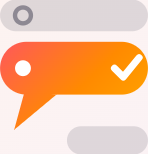
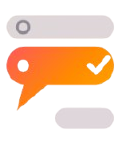
connect backend for api.quizsupport

diff --git a/code-judge-backend/src/controllers/secureMedia.controller.ts b/code-judge-backend/src/controllers/secureMedia.controller.ts
@@ -1,6 +1,6 @@
 // Secure media controller. Serves AES-256-GCM encrypted images from a secure directory
 // as application/octet-stream to prevent browser media inspection. Also serves the
-// public brand logo (public/logo/logo.png) inside the same encrypted envelope.
+// public brand logos (public/logo/*.png) inside the same encrypted envelope.
 import type { Request, Response } from "express";
 import fs from "node:fs/promises";
 import path from "node:path";
@@ -11,106 +11,61 @@ import { SecureMediaService } from "../services/secureMedia.service.ts";
 const secureMediaService = new SecureMediaService();
 
 // --- Brand logo (GET /api/v1/brand/logo) --------------------------------------
-// Source of truth: backend public/logo/logo.png. Drop a new file there and the
-// site picks it up on the next request (cache keyed on mtime + size).
+// Source of truth: two files in public/logo/ —
+//   logo_with_name.png — speech-bubble mark + "QuizSupport" wordmark (wide, ~4:1)
+//   logo.png           — icon-only mark (square, ~1:1)
+// variant=full serves the first, variant=mark the second. Drop a new file there
+// and the site picks it up on the next request (cache keyed on mtime + size).
 const moduleDir = path.dirname(fileURLToPath(import.meta.url));
-const brandLogoFile = path.resolve(moduleDir, "../../public/logo/logo.png");
-
-// Trim tolerance for the padding around the artwork. Tuned against logo.png's
-// near-white background: 25 strips the margins without eating the glyphs.
-const LOGO_TRIM_THRESHOLD = 25;
+const logoDir = path.resolve(moduleDir, "../../public/logo");
 
 type LogoVariant = "full" | "mark";
 
+const brandLogoFiles: Record<LogoVariant, string> = {
+  full: path.join(logoDir, "logo_with_name.png"),
+  mark: path.join(logoDir, "logo.png"),
+};
+
+// Trim tolerance for the padding around the artwork. The source PNGs ship on a
+// transparent canvas; 25 strips the margins without eating the glyphs.
+const LOGO_TRIM_THRESHOLD = 25;
+
 const logoCache = new Map<string, Buffer>();
 
-/**
- * Crop the speech-bubble mark (left icon) out of a wide, already-trimmed
- * wordmark banner. Splits at the first background gap whose start falls in the
- * first 45% of the image — i.e. the seam between mark and wordmark — then
- * re-trims the left slice. Used for square slots (collapsed sidebar rail,
- * favicon). Falls back to the full banner if no seam is found.
- */
-async function autoCropIcon(logoPng: Buffer): Promise<Buffer> {
-  const { data, info } = await sharp(logoPng)
-    .ensureAlpha()
-    .raw()
-    .toBuffer({ resolveWithObject: true });
-  const { width, height, channels } = info;
-
-  // Background ≈ top-left pixel. A column counts as background only when every
-  // pixel in it is within tolerance (sum of |ΔRGB| ≈ 25 per channel).
-  const bgR = data[0];
-  const bgG = data[1];
-  const bgB = data[2];
-  const tolerance = 75;
-  const isBgColumn = new Array<boolean>(width).fill(true);
-  for (let x = 0; x < width; x++) {
-    for (let y = 0; y < height; y++) {
-      const i = (y * width + x) * channels;
-      const diff =
-        Math.abs(data[i] - bgR) +
-        Math.abs(data[i + 1] - bgG) +
-        Math.abs(data[i + 2] - bgB);
-      if (diff > tolerance) {
-        isBgColumn[x] = false;
-        break;
-      }
-    }
+async function statOrNull(file: string): Promise<{ mtimeMs: number; size: number } | null> {
+  try {
+    return await fs.stat(file);
+  } catch (error) {
+    if ((error as NodeJS.ErrnoException).code === "ENOENT") return null;
+    throw error;
   }
-
-  const regionStart = Math.floor(width * 0.15);
-  const regionEnd = Math.floor(width * 0.45);
-  const minGap = 12;
-  let gapStart = -1;
-
-  for (let x = 0; x < width; ) {
-    if (!isBgColumn[x]) {
-      x++;
-      continue;
-    }
-    const runStart = x;
-    while (x < width && isBgColumn[x]) x++;
-    const runEnd = x; // exclusive
-    if (runStart < regionStart || runStart >= regionEnd || runEnd - runStart < minGap) {
-      continue;
-    }
-    let hasContentBefore = false;
-    for (let i = 0; i < runStart && !hasContentBefore; i++) {
-      if (!isBgColumn[i]) hasContentBefore = true;
-    }
-    let hasContentAfter = false;
-    for (let i = runEnd; i < width && !hasContentAfter; i++) {
-      if (!isBgColumn[i]) hasContentAfter = true;
-    }
-    if (hasContentBefore && hasContentAfter) {
-      gapStart = runStart;
-      break;
-    }
-  }
-
-  if (gapStart <= 0) return logoPng;
-
-  return sharp(logoPng)
-    .extract({ left: 0, top: 0, width: gapStart, height })
-    .trim({ threshold: LOGO_TRIM_THRESHOLD })
-    .png()
-    .toBuffer();
 }
 
-/** Read + process public/logo/logo.png for the requested variant (cached). */
+/** Read + process the variant's source file from public/logo/ (cached). */
 async function buildBrandLogoPng(variant: LogoVariant): Promise<Buffer> {
-  const stat = await fs.stat(brandLogoFile); // ENOENT -> 404 upstream
-  const cacheKey = `${stat.mtimeMs}:${stat.size}:${variant}`;
+  // If the with-name artwork is missing, degrade to the mark rather than 404.
+  const preferred = brandLogoFiles[variant];
+  let file = preferred;
+  let stat = await statOrNull(file);
+  if (!stat && variant === "full") {
+    file = brandLogoFiles.mark;
+    stat = await statOrNull(file);
+  }
+  if (!stat) {
+    // Preserve ENOENT semantics so the route answers 404 (not 500).
+    await fs.stat(preferred); // throws ENOENT for the preferred file
+    throw Object.assign(new Error("Brand logo not found"), { code: "ENOENT" });
+  }
+
+  const cacheKey = `${file}:${stat.mtimeMs}:${stat.size}`;
   const cached = logoCache.get(cacheKey);
   if (cached) return cached;
 
-  const source = await fs.readFile(brandLogoFile);
-  const trimmed = await sharp(source)
+  const source = await fs.readFile(file);
+  const png = await sharp(source)
     .trim({ threshold: LOGO_TRIM_THRESHOLD })
     .png()
     .toBuffer();
-  const png = variant === "mark" ? await autoCropIcon(trimmed) : trimmed;
 
   if (logoCache.size > 8) logoCache.clear();
   logoCache.set(cacheKey, png);
@@ -186,10 +141,11 @@ export const getSecureMedia = async (req: Request, res: Response) => {
 
 /**
  * GET /api/v1/brand/logo (PUBLIC — no auth, used by navbars/footers/auth pages)
- * Serves the site logo from public/logo/logo.png — whitespace-trimmed and
- * AES-256-GCM encrypted, same envelope as secure-media.
- * Query: ?variant=mark returns the icon-only crop for square slots
- * (collapsed sidebar rail, favicon generation).
+ * Serves the site logo from public/logo/ — whitespace-trimmed and AES-256-GCM
+ * encrypted, same envelope as secure-media.
+ * Query: ?variant=full (default) serves logo_with_name.png (mark + wordmark),
+ * ?variant=mark serves logo.png (icon-only) for square slots (collapsed
+ * sidebar rail, auth headers, favicon generation).
  */
 export const getBrandLogo = async (req: Request, res: Response) => {
   try {

diff --git a/code-judge-frontend/src/components/layout/AppLayout.tsx b/code-judge-frontend/src/components/layout/AppLayout.tsx
@@ -373,9 +373,7 @@ function AppLayoutContent({ children, header }: { children: React.ReactNode; hea
           <Link href={homeHref} className="flex items-center gap-2.5">
             {isStudentMissionRoute || isStudentPartyRoute ? (
               <>
-                <div className={cn("flex h-8 w-8 shrink-0 items-center justify-center rounded-lg bg-gradient-to-br from-[#7C3AED] to-[#3B82F6]", isStudentMissionRoute && "rounded-xl from-[#8B7CFF] via-[#765AEF] to-[#366ED8] shadow-[0_0_22px_rgba(124,92,255,.35)]", isStudentPartyRoute && "rounded-xl from-[#FF79B0] via-[#FF9E57] to-[#FFD34E] shadow-[0_0_22px_rgba(255,121,176,.3)]")}>
-                  {isStudentMissionRoute ? <Rocket className="h-4 w-4 text-white" /> : <IceCreamCone className="h-4 w-4 text-white" />}
-                </div>
+                <SecureLogo size={32} variant="mark" />
                 {showLabels && (
                   <span className="min-w-0 whitespace-nowrap">
                     <span className="block text-base font-bold tracking-tight text-ai-text">{isStudentMissionRoute ? "Mission Control" : "Quiz Party"}</span>
@@ -513,14 +511,7 @@ function AppLayoutContent({ children, header }: { children: React.ReactNode; hea
 
             {/* Brand logo — always visible (the project sidebar hides in the quiz workspace) */}
             <Link href={homeHref} className="flex shrink-0 items-center gap-2" aria-label="QuizSupport home">
-              {isStudentQuizRoute ? (
-                <>
-                  <span className="grid h-7 w-7 place-items-center rounded-lg bg-gradient-to-br from-violet-500 to-blue-600 shadow-[0_0_18px_rgba(124,92,255,.3)]"><Rocket className="h-3.5 w-3.5 text-white" /></span>
-                  <span className="hidden text-sm font-bold tracking-tight text-text-primary sm:block">QuizSupport</span>
-                </>
-              ) : (
-                <SecureLogo size={24} />
-              )}
+              <SecureLogo size={24} />
             </Link>
           </div>
 

diff --git a/code-judge-frontend/src/components/auth/AuthThemeChrome.tsx b/code-judge-frontend/src/components/auth/AuthThemeChrome.tsx
@@ -6,6 +6,7 @@ import { BrainCircuit, CheckCircle2, FileText, IceCreamCone, Layers3, LoaderCirc
 import ThemeToggle from "@/components/ui/ThemeToggle";
 import { useTheme } from "@/context/ThemeContext";
 import { cn } from "@/lib/helpers";
+import { SecureLogo } from "@/components/common/SecureLogo";
 
 export function AuthLoader({ className }: { className?: string }) {
   return <LoaderCircle className={cn("h-6 w-6 animate-spin text-current", className)} aria-label="Loading" />;
@@ -296,20 +297,9 @@ export function AuthThemeControls({ fantasyDesktop = false }: { fantasyDesktop?:
 }
 
 export function AuthBrandMark({ className }: { className?: string }) {
-  const { theme } = useTheme();
-  const partyMode = theme === "light";
-
   return (
-    <div className={cn("inline-flex items-center gap-2.5", className)}>
-      <div className={cn("grid h-10 w-10 place-items-center rounded-2xl bg-gradient-to-br text-white", partyMode ? "from-pink-400 via-orange-400 to-amber-300 shadow-[0_12px_28px_-14px_rgba(244,114,182,.85)]" : "from-violet-500 via-indigo-500 to-blue-600 shadow-[0_12px_30px_-14px_rgba(124,92,255,.9)]")}>
-        {partyMode ? <IceCreamCone className="h-5 w-5" /> : <Rocket className="h-5 w-5" />}
-      </div>
-      <span className="text-left leading-tight">
-        <span className="block text-base font-extrabold tracking-tight text-text-primary">QuizSupport</span>
-        <span className={cn("mt-0.5 flex items-center gap-1 text-[8px] font-bold uppercase tracking-[0.16em]", partyMode ? "text-pink-500" : "text-violet-300/80")}>
-          <Sparkles className="h-2.5 w-2.5" /> {partyMode ? "Quiz Party" : "Space Program"}
-        </span>
-      </span>
+    <div className={cn("inline-flex justify-center", className)}>
+      <SecureLogo variant="full" size={64} />
     </div>
   );
 }

diff --git a/code-judge-frontend/src/components/platform/PlatformSidebar.tsx b/code-judge-frontend/src/components/platform/PlatformSidebar.tsx
@@ -11,6 +11,7 @@ import {
 import { ownerLogout } from "@/services/auth";
 import { clearPlatformSession, getPlatformEmail, notifyPlatformSessionInvalid } from "@/lib/platformToken";
 import { StatusDot } from "@/components/platform/ui";
+import { SecureLogo } from "@/components/common/SecureLogo";
 
 interface NavItem { label: string; href: string; icon: LucideIcon }
 
@@ -72,9 +73,7 @@ function SidebarBody({ onNavigate, healthOk }: { onNavigate?: () => void; health
     <div className="flex h-full flex-col">
       <div className="shrink-0 border-b border-[var(--border)] px-4 pb-4 pt-4">
         <div className="flex items-center gap-3">
-          <div className="grid h-9 w-9 shrink-0 place-items-center rounded-[11px] bg-gradient-to-br from-[#EC4899] to-[#8B5CF6] text-[14px] font-black text-white shadow-[0_8px_24px_rgba(236,72,153,.24)]">
-            C
-          </div>
+          <SecureLogo variant="mark" size={36} />
           <div className="min-w-0">
             <p className="text-[14px] font-semibold tracking-[-0.01em] text-[var(--text-primary)]">QuizSupport</p>
             <p className="text-[10px] font-medium uppercase tracking-[0.14em] text-[var(--text-muted)]">Control center</p>

diff --git a/code-judge-frontend/src/components/common/SecureLogo.tsx b/code-judge-frontend/src/components/common/SecureLogo.tsx
@@ -53,14 +53,15 @@ async function fetchBrandLogoUrl(variant: SecureLogoVariant): Promise<string | n
 
 /**
  * Site brand mark served AES-encrypted from the backend
- * (`GET /api/v1/brand/logo` -> public/logo/logo.png, whitespace-trimmed) and
- * decrypted client-side.
+ * (`GET /api/v1/brand/logo` -> public/logo/logo_with_name.png for `full`,
+ * public/logo/logo.png for `mark`, whitespace-trimmed) and decrypted
+ * client-side.
  *
- * - `variant="full"` — the horizontal quizsupport wordmark, drawn at `size`
+ * - `variant="full"` — the QuizSupport wordmark + icon, drawn at `size`
  *   height with a 4:1 box (`object-contain`, so aspect changes degrade
  *   gracefully instead of cropping).
- * - `variant="mark"` — icon-only speech-bubble crop for square slots
- *   (collapsed sidebar rail).
+ * - `variant="mark"` — icon-only speech-bubble art for square slots
+ *   (collapsed sidebar rail, auth headers, platform console).
  *
  * Falls back to the legacy gradient Code2 mark while loading or if
  * decryption is unavailable.

diff --git a/code-judge-frontend/src/components/layout/Footer.tsx b/code-judge-frontend/src/components/layout/Footer.tsx
@@ -1,4 +1,5 @@
 import Link from "next/link";
+import { SecureLogo } from "@/components/common/SecureLogo";
 
 export default function Footer() {
   return (
@@ -6,7 +7,7 @@ export default function Footer() {
       <div className="mx-auto max-w-7xl px-4 py-3">
         <div className="flex flex-wrap items-center justify-between gap-2 text-[11px] text-muted-foreground">
           <div className="flex items-center gap-3">
-            <span className="font-medium text-white">QuizSupport</span>
+            <SecureLogo size={16} />
             <span className="text-[#3F3F46]">|</span>
             <Link href="/quiz" className="hover:text-[#7C3AED] transition-colors">Quizzes</Link>
             <Link href="/problems" className="hover:text-[#7C3AED] transition-colors">Problemset</Link>

diff --git a/code-judge-frontend/next.config.ts b/code-judge-frontend/next.config.ts
@@ -7,13 +7,13 @@ import type { NextConfig } from "next";
  * reads the runtime env on both `next dev` and deployed servers.
  *
  * Local dev:  BACKEND_URL=http://localhost:8000   (see .env, NODE_ENV=development)
- * Production: BACKEND_URL=https://quizbackend-dun.vercel.app (NODE_ENV=production, or Vercel dashboard env)
+ * Production: BACKEND_URL=https://api.quizsupport.com (NODE_ENV=production, or Vercel dashboard env)
  */
 const BACKEND_URL =
   process.env.BACKEND_URL ||
   (process.env.NODE_ENV === "development"
     ? "http://localhost:8000"
-    : "https://quizbackend-dun.vercel.app");
+    : "https://api.quizsupport.com");
 
 if (process.env.NODE_ENV === "development") {
   console.log(`[next.config] /api/* -> ${BACKEND_URL}/api/*`);

diff --git a/code-judge-frontend/src/services/secureMedia.ts b/code-judge-frontend/src/services/secureMedia.ts
@@ -86,7 +86,7 @@ export async function getSecureImageBlob(imageName: string): Promise<Blob> {
   const rawBase =
     process.env.NEXT_PUBLIC_BACKEND_URL ||
     process.env.NEXT_PUBLIC_API_URL ||
-    "https://quizbackend-dun.vercel.app/api";
+    "https://api.quizsupport.com/api";
   const baseUrl = rawBase.replace(/\/v1\/?$/, "").replace(/\/$/, "");
   const endpoint = baseUrl
     ? `${baseUrl}/v1/secure-media/${encodeURIComponent(imageName)}`

diff --git a/code-judge-frontend/src/services/problems.ts b/code-judge-frontend/src/services/problems.ts
@@ -33,7 +33,7 @@ import type { Problem, ProblemListItem, ApiResponse } from "@/types/problem";
 const rawBase =
   process.env.NEXT_PUBLIC_BACKEND_URL ||
   process.env.NEXT_PUBLIC_API_URL ||
-  "https://quizbackend-dun.vercel.app/api";
+  "https://api.quizsupport.com/api";
 const API_BASE = rawBase.replace(/\/v1\/?$/, "").replace(/\/$/, "");
 
 function authenticatedFetchOptions(cookieHeader?: string): RequestInit {

diff --git a/code-judge-frontend/src/services/aiGenerate.ts b/code-judge-frontend/src/services/aiGenerate.ts
@@ -12,7 +12,7 @@ import type { Section } from "@/components/creator/tests/sections/types";
 const rawBase =
   process.env.NEXT_PUBLIC_BACKEND_URL ||
   process.env.NEXT_PUBLIC_API_URL ||
-  "https://quizbackend-dun.vercel.app/api";
+  "https://api.quizsupport.com/api";
 const API_BASE = rawBase.replace(/\/v1\/?$/, "").replace(/\/$/, "");
 
 export interface QuestionGeneratorCatalog {

diff --git a/code-judge-frontend/src/app/api/v1/platform/question-import/commit/route.ts b/code-judge-frontend/src/app/api/v1/platform/question-import/commit/route.ts
@@ -15,7 +15,7 @@ const BACKEND_URL =
   process.env.BACKEND_URL ||
   (process.env.NODE_ENV === "development"
     ? "http://localhost:8000"
-    : "https://quizbackend-dun.vercel.app");
+    : "https://api.quizsupport.com");
 
 // Commit runs one validated DB transaction; allow Vercel Hobby max.
 export const maxDuration = 300;

diff --git a/code-judge-frontend/src/app/api/v1/platform/question-import/preview/route.ts b/code-judge-frontend/src/app/api/v1/platform/question-import/preview/route.ts
@@ -14,7 +14,7 @@ const BACKEND_URL =
   process.env.BACKEND_URL ||
   (process.env.NODE_ENV === "development"
     ? "http://localhost:8000"
-    : "https://quizbackend-dun.vercel.app");
+    : "https://api.quizsupport.com");
 
 // Vercel Hobby serverless functions allow at most 300 seconds.
 export const maxDuration = 300;
